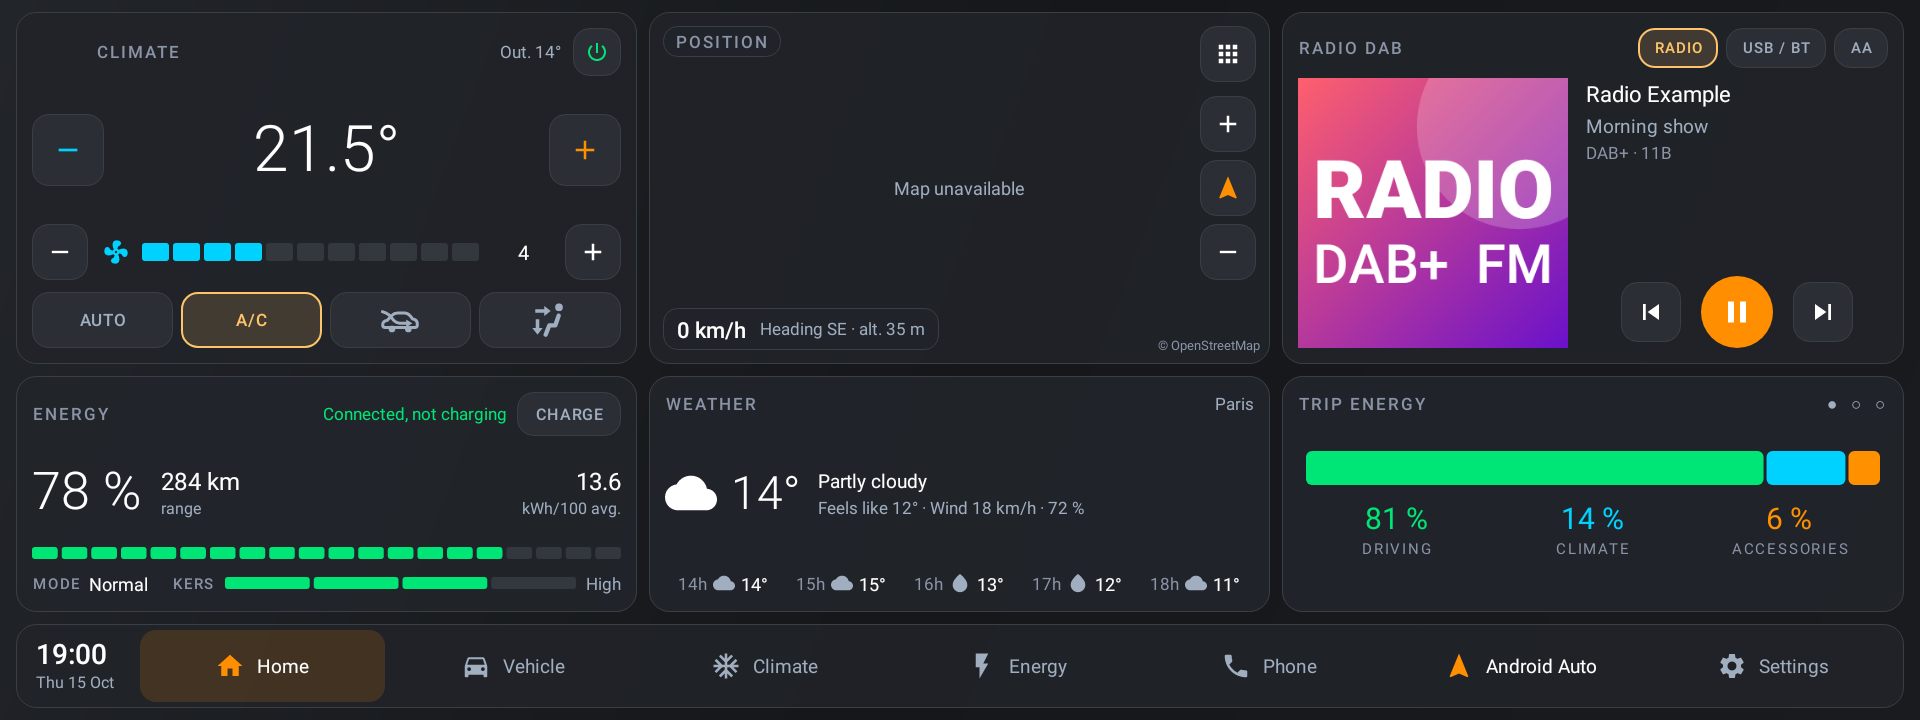
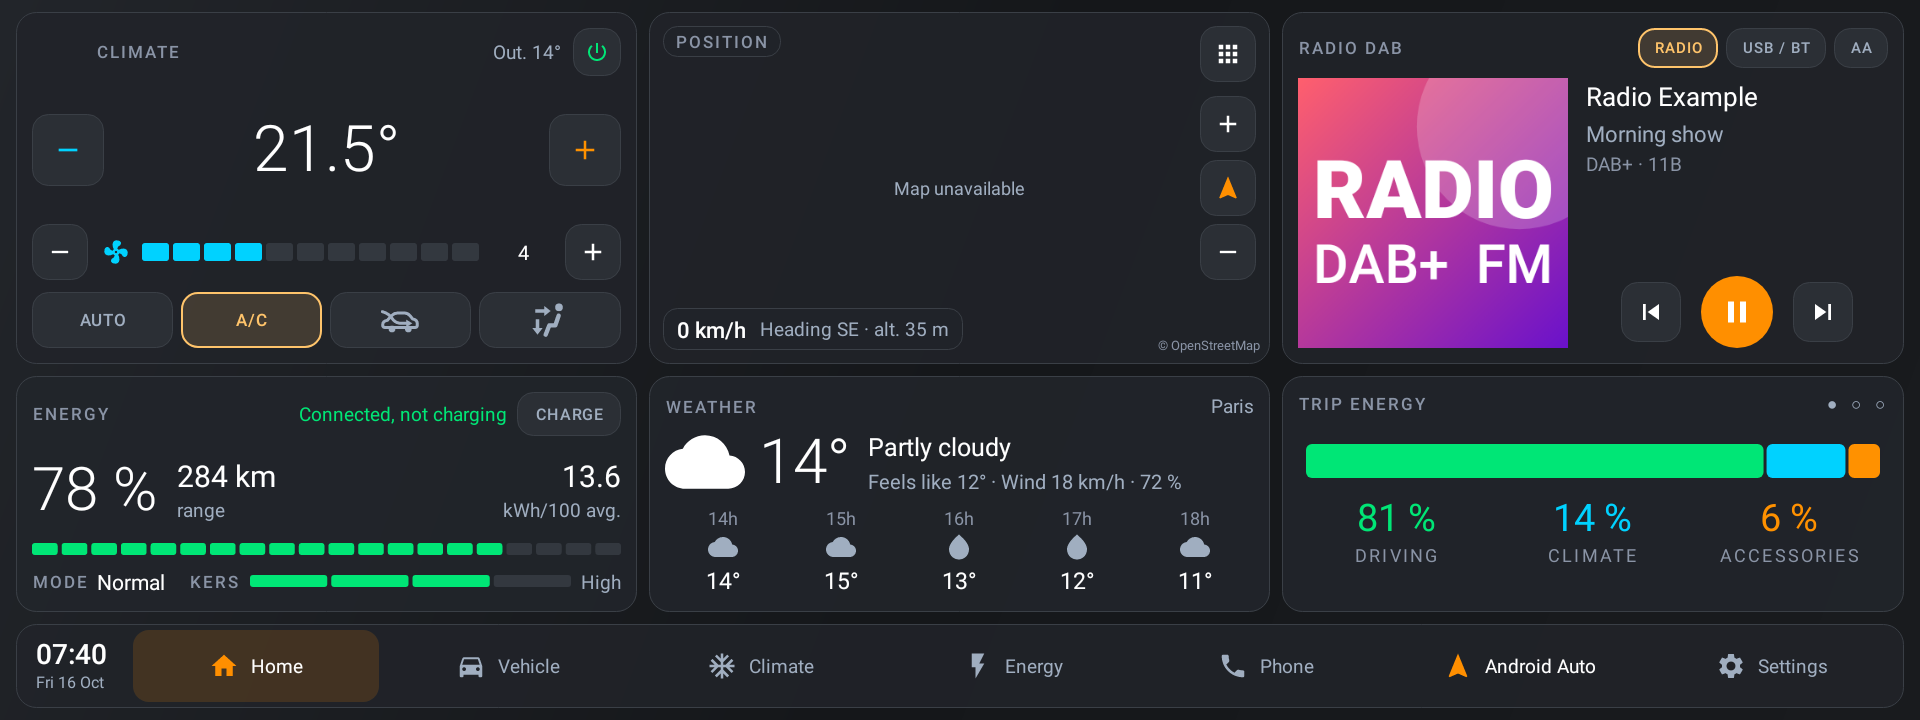
README: refreshed home screenshots

diff --git a/README.md b/README.md
@@ -7,7 +7,7 @@ Languages: English (default), French, German, Spanish, Italian and Dutch, follow
 > Screenshots are rendered on a PC with simulated data (the OpenStreetMap map only shows on the car).
 
 ### Home
-![Home](docs/screenshots/home.png?v=10)
+![Home](docs/screenshots/home.png?v=11)
 Climate (temperature, fan, AUTO, A/C, recirculation, defrost), energy (battery, range, estimated consumption, drive mode, KERS, Charge / Start V2L button), vehicle position, Open-Meteo weather, a media card that follows the car's active audio source (DAB/FM radio, Bluetooth, USB, Android Auto) and a bottom-right widget with three pages (see below).
 
 Long press the Android Auto button in the dock to replace it with the app of your choice.
@@ -20,47 +20,47 @@ Tap it to switch between three pages, all readable at a glance while driving:
 
 | | |
 |---|---|
-| ![Live power](docs/screenshots/home_widget_power.png?v=10) | ![Phone favourites](docs/screenshots/home_widget_phone.png?v=10) |
+| ![Live power](docs/screenshots/home_widget_power.png?v=11) | ![Phone favourites](docs/screenshots/home_widget_phone.png?v=11) |
 
 ### Simple home layout
-![Simple home](docs/screenshots/home_simple.png?v=10)
+![Simple home](docs/screenshots/home_simple.png?v=11)
 An alternative, calmer home screen for those who want fewer buttons and bigger text: three large panels (climate, battery, media), two configurable shortcuts and today's weather, with a reduced dock (Home, Phone, Android Auto, Settings). Choose it in the launcher settings, under "Home layout"; tap a panel to open the matching page.
 
 ### Shortcuts and Home Assistant
-![Shortcuts](docs/screenshots/home_shortcuts.png?v=10)
+![Shortcuts](docs/screenshots/home_shortcuts.png?v=11)
 The button at the top right of the map swaps it for 2 pages of 4 × 2 shortcuts: apps or Home Assistant actions (scripts, automations, scenes, buttons, gate, garage door…). Tap an empty slot, or long press any slot, to change it. The Home Assistant address and token are set in the launcher settings.
 
 ### Themes
-![Charcoal background, orange buttons](docs/screenshots/home_theme_charcoal_orange.png?v=10)
+![Charcoal background, orange buttons](docs/screenshots/home_theme_charcoal_orange.png?v=11)
 Background (night blue, black, charcoal, dark green, dark burgundy) and button colour (blue, grey, red, green, orange) are chosen separately in the launcher settings and apply to every page. Battery green, heating orange, cooling cyan and alert red keep their meaning. Radio Dash 1.2 follows the same theme.
 
 Light mode: dark, light or auto in the same settings. In auto, every page (and Radio Dash) switches to dark when the car's lights come on, and back to light when they go off.
 
-![Light mode, home](docs/screenshots/home_light.png?v=10)
+![Light mode, home](docs/screenshots/home_light.png?v=11)
 
 | | |
 |---|---|
-| ![Climate, light](docs/screenshots/climate_light.png?v=10) | ![Energy, light](docs/screenshots/energy_light.png?v=10) |
-| ![Simple home, light](docs/screenshots/home_simple_light.png?v=10) | ![Settings, light](docs/screenshots/settings_light.png?v=10) |
+| ![Climate, light](docs/screenshots/climate_light.png?v=11) | ![Energy, light](docs/screenshots/energy_light.png?v=11) |
+| ![Simple home, light](docs/screenshots/home_simple_light.png?v=11) | ![Settings, light](docs/screenshots/settings_light.png?v=11) |
 
 ### Climate
-![Climate](docs/screenshots/climate.png?v=10)
+![Climate](docs/screenshots/climate.png?v=11)
 Temperature in 1° steps (LO → HI), fan speed, combinable air direction, AUTO, A/C, ECO, recirculation and front / rear defrost.
 
 ### Energy
-![Energy](docs/screenshots/energy.png?v=10)
+![Energy](docs/screenshots/energy.png?v=11)
 Charging (start / stop, charge limit enforced by MG4Dash, AC current), scheduled charging, V2L (stop threshold, start / stop), battery heating while driving (same switch as the stock Energy app) and consumption (driving, climate, accessories, regeneration, curve of the last kilometres).
 
 ### Vehicle
-![Vehicle](docs/screenshots/vehicle.png?v=10)
+![Vehicle](docs/screenshots/vehicle.png?v=11)
 Drive mode, KERS, driver assistance and vehicle status, read only, with a shortcut to MG4 Control.
 
 ### Phone
-![Phone](docs/screenshots/phone.png?v=10)
+![Phone](docs/screenshots/phone.png?v=11)
 Recent calls, contacts with a search field and a keypad, from the phone connected over Bluetooth. Calls go through the hands-free (HFP) account, like the stock phone app, whose in-call screen is kept.
 
 ### Launcher settings
-![Settings](docs/screenshots/settings.png?v=10)
+![Settings](docs/screenshots/settings.png?v=11)
 Home screen (replace the SAIC home / maintenance mode), battery capacity, weather city, startup, full screen, energy data recorder, Home Assistant and a built-in log.
 
 ## Project layout
